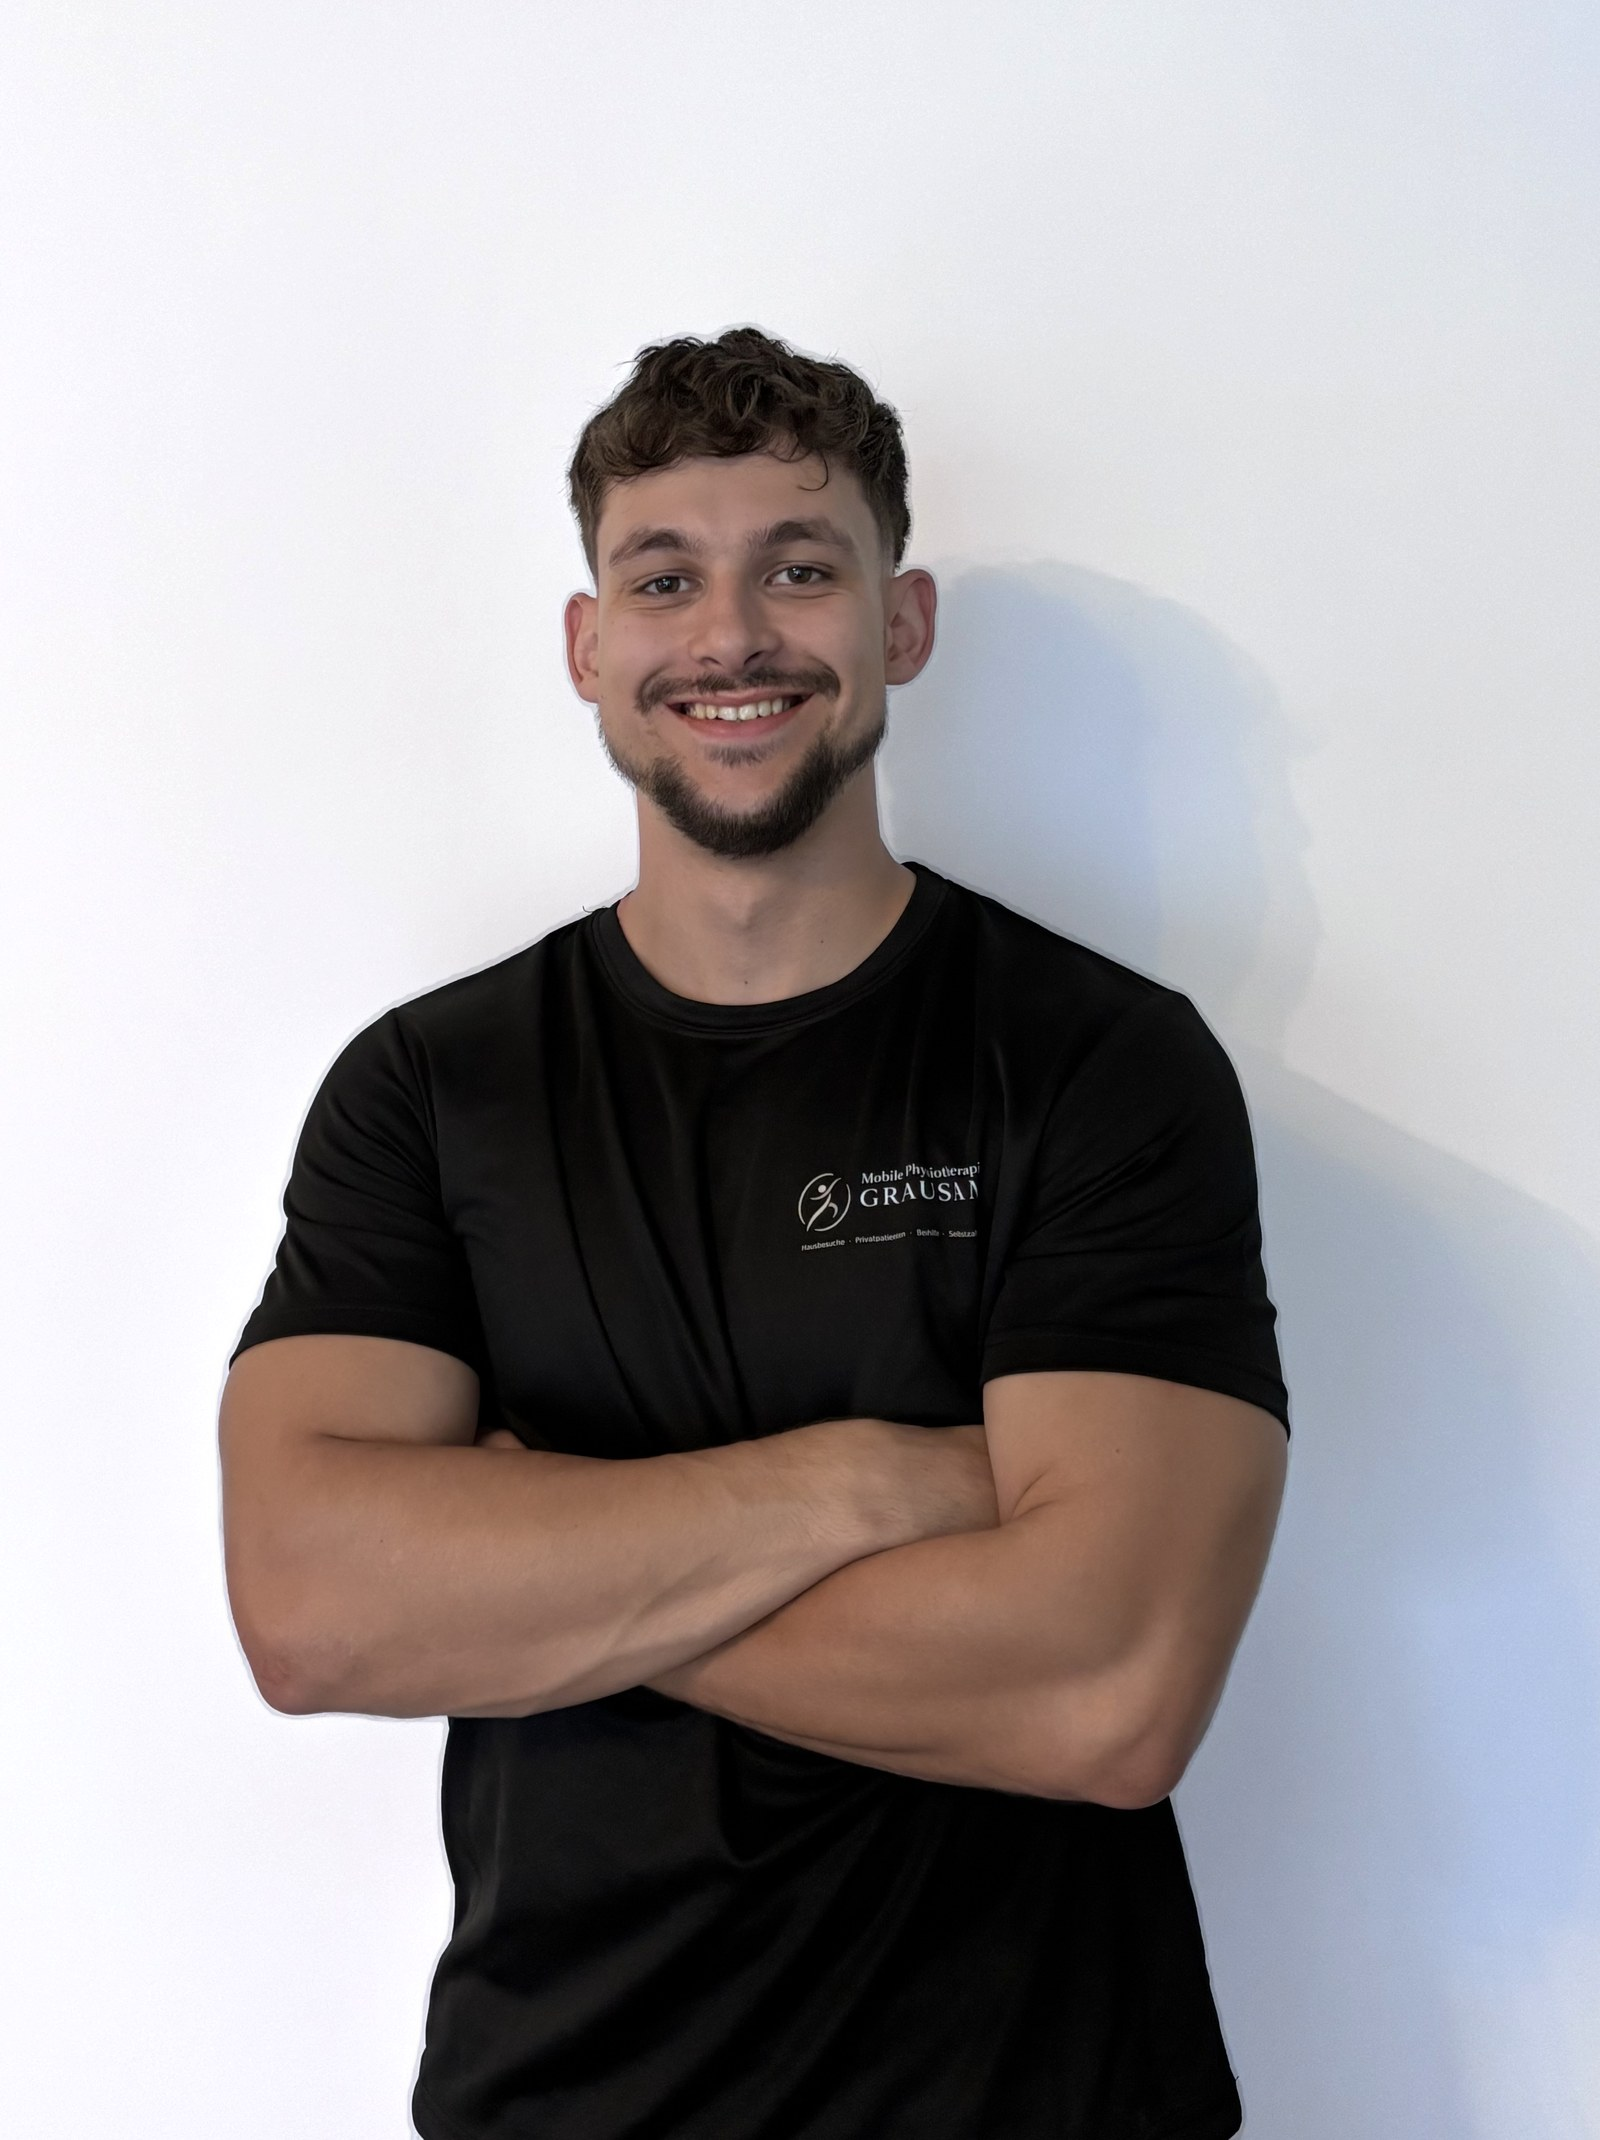
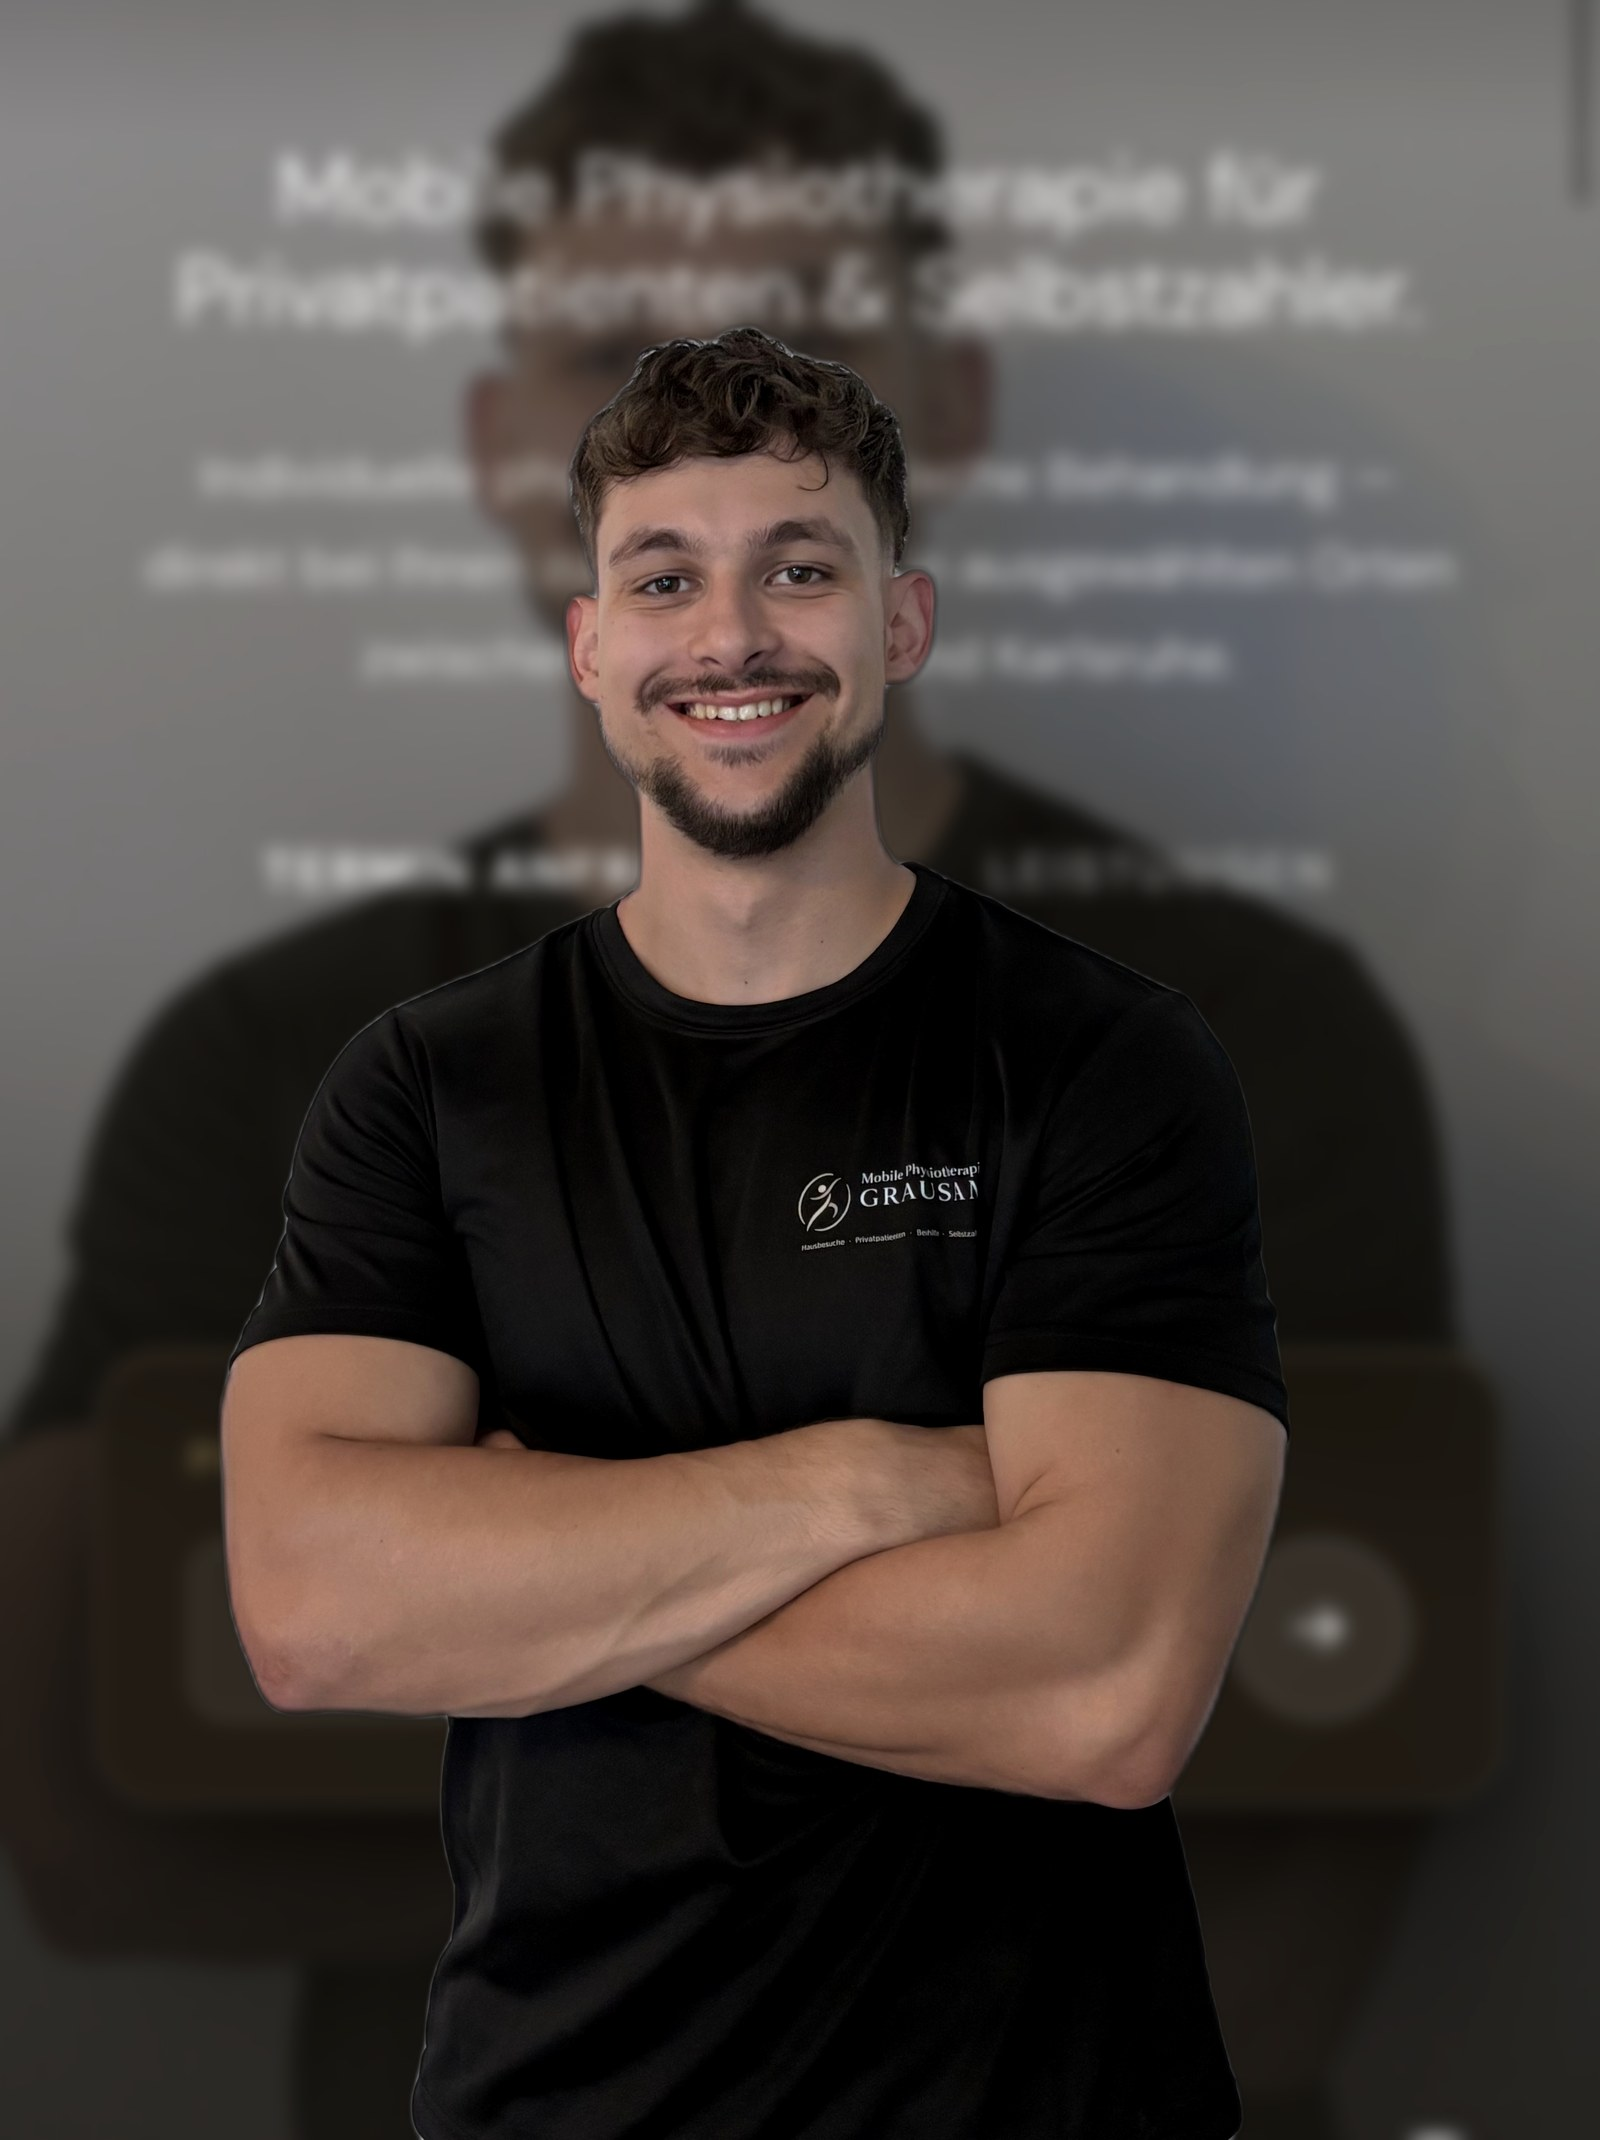
Physiotherapie-Hintergrundbild eingebaut (echtes Foto)
Nick auf echtem Physio-Hintergrund (Behandlungsraum) composited,
Hintergrund weichgezeichnet fuer Tiefenschaerfe-Effekt.

diff --git a/make_physio_bg.py b/make_physio_bg.py
@@ -1,0 +1,161 @@
+#!/usr/bin/env python3
+"""Cut out Nick from IMG_0065.jpeg and composite on a physiotherapy clinic background."""
+
+from PIL import Image, ImageDraw, ImageFilter, ImageEnhance
+import numpy as np
+from rembg import remove
+import io
+
+SRC = "/root/.claude/uploads/39329c57-f482-5ed9-bb4b-a0adc52812cb/1e17c4d3-IMG_0065.jpeg"
+
+# --- Load and cut out person ---
+img = Image.open(SRC).convert("RGB")
+W, H = img.size
+print(f"Original: {W}x{H}")
+
+img_bytes = io.BytesIO()
+img.save(img_bytes, format="PNG")
+result_bytes = remove(img_bytes.getvalue())
+person_rgba = Image.open(io.BytesIO(result_bytes)).convert("RGBA")
+print("Person cutout done.")
+
+# --- Build physiotherapy clinic background at same resolution ---
+bg = Image.new("RGB", (W, H), (0, 0, 0))
+draw = ImageDraw.Draw(bg)
+
+# Wall: warm light grey/beige, gradient top to bottom
+for y in range(H):
+    t = y / H
+    # Top: warm white (245,242,237) → bottom: warm beige-grey (210,205,195)
+    r = int(245 - t * 35)
+    g = int(242 - t * 37)
+    b = int(237 - t * 42)
+    draw.line([(0, y), (W, y)], fill=(r, g, b))
+
+# Subtle warm light glow from upper-left (window light simulation)
+glow = Image.new("RGB", (W, H), (0, 0, 0))
+glow_draw = ImageDraw.Draw(glow)
+glow_draw.ellipse([(-W//4, -H//4), (W//1.2, H//1.8)], fill=(255, 248, 230))
+glow = glow.filter(ImageFilter.GaussianBlur(radius=W//3))
+bg = Image.blend(bg, glow, alpha=0.18)
+
+# Floor: darker warm tone at the very bottom
+for y in range(int(H * 0.88), H):
+    t = (y - H * 0.88) / (H * 0.12)
+    r = int(180 - t * 20)
+    g = int(172 - t * 20)
+    b = int(160 - t * 18)
+    draw2 = ImageDraw.Draw(bg)
+    draw2.line([(0, y), (W, y)], fill=(r, g, b))
+
+# Floor/wall divider baseboard
+bh = int(H * 0.02)
+for y in range(int(H * 0.88), int(H * 0.88) + bh):
+    t = (y - H * 0.88) / bh
+    r = int(200 - t * 30)
+    g = int(195 - t * 30)
+    b = int(185 - t * 28)
+    draw3 = ImageDraw.Draw(bg)
+    draw3.line([(0, y), (W, y)], fill=(r, g, b))
+
+# ── Treatment table (Behandlungsbank) ──
+# Positioned in lower-right background, partially behind person
+table_x1 = int(W * 0.42)
+table_x2 = W + 50  # extends off-right edge
+table_top = int(H * 0.60)
+table_bot = int(H * 0.75)
+
+draw4 = ImageDraw.Draw(bg)
+# Table surface: warm dark grey (medical table color — dark charcoal/teal)
+table_col = (58, 72, 80)
+table_highlight = (72, 88, 96)
+draw4.rectangle([table_x1, table_top, table_x2, table_bot], fill=table_col)
+# Highlight edge on top of table
+draw4.rectangle([table_x1, table_top, table_x2, table_top + int(H*0.015)], fill=table_highlight)
+# Side of table
+draw4.rectangle([table_x1, table_top, table_x1 + int(W*0.025), table_bot + int(H*0.12)], fill=(45, 56, 62))
+# Table leg
+leg_x = int(W * 0.72)
+leg_w = int(W * 0.02)
+draw4.rectangle([leg_x, table_bot, leg_x + leg_w, table_bot + int(H*0.12)], fill=(50, 60, 66))
+
+# Table pillow/cushion on top
+pillow_top = table_top - int(H * 0.018)
+pillow_bot = table_top + int(H * 0.012)
+draw4.rounded_rectangle(
+    [table_x1 + int(W*0.03), pillow_top, table_x2 - int(W*0.05), pillow_bot],
+    radius=int(H*0.008), fill=(235, 230, 218)
+)
+
+# ── Plant pot (left background) ──
+# Pot
+pot_cx = int(W * 0.08)
+pot_by = int(H * 0.88)
+pot_w = int(W * 0.09)
+pot_h = int(H * 0.10)
+draw4.rounded_rectangle(
+    [pot_cx - pot_w//2, pot_by - pot_h, pot_cx + pot_w//2, pot_by],
+    radius=int(pot_w*0.15), fill=(180, 130, 100)
+)
+# Soil
+draw4.ellipse(
+    [pot_cx - pot_w//2 + 4, pot_by - pot_h, pot_cx + pot_w//2 - 4, pot_by - int(pot_h*0.82)],
+    fill=(80, 55, 35)
+)
+# Plant leaves
+leaf_col = (72, 120, 72)
+leaf_col2 = (55, 100, 60)
+for i, (ox, oy, r, col) in enumerate([
+    (-pot_w*0.3, -pot_h*1.6, pot_w*0.45, leaf_col),
+    (pot_w*0.25, -pot_h*1.9, pot_w*0.40, leaf_col2),
+    (0, -pot_h*2.2, pot_w*0.50, leaf_col),
+    (-pot_w*0.5, -pot_h*2.5, pot_w*0.38, leaf_col2),
+    (pot_w*0.45, -pot_h*2.0, pot_w*0.35, leaf_col),
+]):
+    cx = pot_cx + int(ox)
+    cy = pot_by + int(oy)
+    rr = int(r)
+    draw4.ellipse([cx-rr, cy-int(rr*1.8), cx+rr, cy+int(rr*0.6)], fill=col)
+
+# ── Wall decoration (framed certificate / picture, upper right) ──
+frame_x1 = int(W * 0.78)
+frame_y1 = int(H * 0.10)
+frame_x2 = int(W * 0.95)
+frame_y2 = int(H * 0.32)
+# Frame border
+draw4.rectangle([frame_x1, frame_y1, frame_x2, frame_y2], fill=(160, 145, 125))
+# Inner mat
+draw4.rectangle([frame_x1+8, frame_y1+8, frame_x2-8, frame_y2-8], fill=(248, 244, 236))
+# Inner image placeholder (light blue-grey like anatomy poster)
+draw4.rectangle([frame_x1+20, frame_y1+20, frame_x2-20, frame_y2-20], fill=(210, 220, 228))
+
+# Blur the entire background for a shallow-depth-of-field look
+bg = bg.filter(ImageFilter.GaussianBlur(radius=28))
+
+# Slight warm tone overlay
+warm = Image.new("RGB", (W, H), (255, 240, 210))
+bg = Image.blend(bg, warm, alpha=0.06)
+
+print("Background built.")
+
+# --- Composite person onto background ---
+bg_rgba = bg.convert("RGBA")
+bg_rgba.paste(person_rgba, (0, 0), mask=person_rgba.split()[3])
+result = bg_rgba.convert("RGB")
+
+# Slight overall warmth/contrast boost
+result = ImageEnhance.Contrast(result).enhance(1.08)
+result = ImageEnhance.Color(result).enhance(1.05)
+
+# --- Save outputs ---
+OUT = "/home/user/Mobile-Physiotherapie-Grausam"
+
+r800 = result.resize((800, int(H * 800/W)), Image.LANCZOS)
+r800.save(f"{OUT}/foto-3-800.jpg", "JPEG", quality=88, optimize=True)
+r800.save(f"{OUT}/foto-3-800.webp", "WEBP", quality=85)
+
+r1600 = result.resize((1600, int(H * 1600/W)), Image.LANCZOS)
+r1600.save(f"{OUT}/foto-3-1600.jpg", "JPEG", quality=88, optimize=True)
+r1600.save(f"{OUT}/foto-3-1600.webp", "WEBP", quality=85)
+
+print("Saved foto-3-800/1600 .jpg/.webp")

diff --git a/composite_real_bg.py b/composite_real_bg.py
@@ -1,0 +1,68 @@
+#!/usr/bin/env python3
+"""Composite Nick (cutout from IMG_0065.jpeg) onto the real physiotherapy background photo."""
+
+from PIL import Image, ImageFilter, ImageEnhance
+import numpy as np
+from rembg import remove
+import io
+
+SRC_PERSON = "/root/.claude/uploads/39329c57-f482-5ed9-bb4b-a0adc52812cb/1e17c4d3-IMG_0065.jpeg"
+SRC_BG = "/root/.claude/uploads/39329c57-f482-5ed9-bb4b-a0adc52812cb/3b19f856-IMG_3790.png"
+
+# --- Cut out person ---
+img = Image.open(SRC_PERSON).convert("RGB")
+W, H = img.size
+print(f"Person original: {W}x{H}")
+
+img_bytes = io.BytesIO()
+img.save(img_bytes, format="PNG")
+result_bytes = remove(img_bytes.getvalue())
+person_rgba = Image.open(io.BytesIO(result_bytes)).convert("RGBA")
+print("Cutout done.")
+
+# --- Prepare background ---
+bg = Image.open(SRC_BG).convert("RGB")
+# Scale background to match person dimensions (fill, crop to center)
+bg_ratio = bg.width / bg.height
+person_ratio = W / H
+
+if bg_ratio > person_ratio:
+    # bg is wider — scale by height
+    new_h = H
+    new_w = int(H * bg_ratio)
+else:
+    # bg is taller — scale by width
+    new_w = W
+    new_h = int(W / bg_ratio)
+
+bg = bg.resize((new_w, new_h), Image.LANCZOS)
+# Center crop
+left = (new_w - W) // 2
+top = (new_h - H) // 2
+bg = bg.crop((left, top, left + W, top + H))
+
+# Blur background for depth-of-field effect
+bg = bg.filter(ImageFilter.GaussianBlur(radius=22))
+
+print("Background prepared.")
+
+# --- Composite ---
+bg_rgba = bg.convert("RGBA")
+bg_rgba.paste(person_rgba, (0, 0), mask=person_rgba.split()[3])
+result = bg_rgba.convert("RGB")
+
+# Slight contrast/color boost
+result = ImageEnhance.Contrast(result).enhance(1.06)
+
+# --- Save ---
+OUT = "/home/user/Mobile-Physiotherapie-Grausam"
+
+r800 = result.resize((800, int(H * 800 / W)), Image.LANCZOS)
+r800.save(f"{OUT}/foto-3-800.jpg", "JPEG", quality=88, optimize=True)
+r800.save(f"{OUT}/foto-3-800.webp", "WEBP", quality=85)
+
+r1600 = result.resize((1600, int(H * 1600 / W)), Image.LANCZOS)
+r1600.save(f"{OUT}/foto-3-1600.jpg", "JPEG", quality=88, optimize=True)
+r1600.save(f"{OUT}/foto-3-1600.webp", "WEBP", quality=85)
+
+print("Done.")
